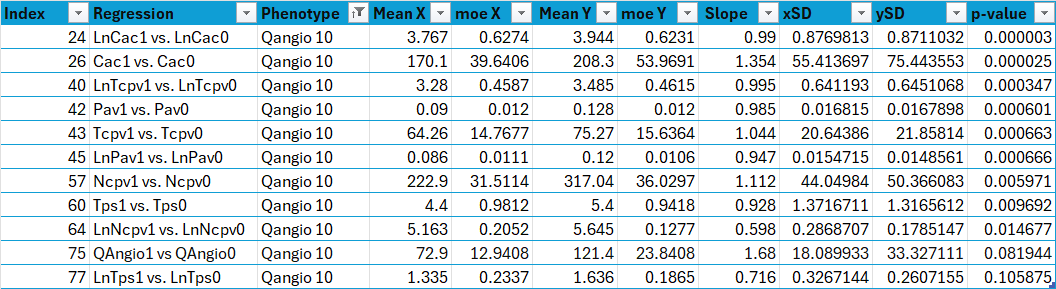
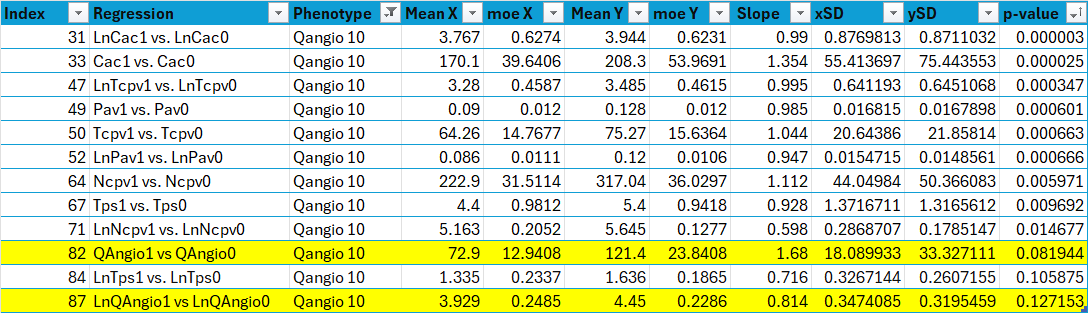
Upgrade to new version 1.1.1 of linear regresion tool, Found a bug in the bottom o the selector code using wrong regex match for attribute case correction.

diff --git a/KetoCtaRegressions/Program_Gold.cs b/KetoCtaRegressions/Program_Gold.cs
@@ -3,6 +3,7 @@ using Keto_Cta;
 using System.Reflection.PortableExecutable;
 using System.Text.RegularExpressions;
 using System.Xml.Linq;
+using LinearRegression;
 using static System.Text.RegularExpressions.Regex;
 
 var ctaDataPath = "TestData/keto-cta-quant-and-semi-quant.csv";
@@ -38,18 +39,18 @@ var dataPoints = new Dictionary<SetName, List<(string id, double x, double y)>>
 foreach (var dust in localDusts)
 {
     dataPoints[dust.SetName].Add(("NA", dust.Regression.PValue, dust.Regression.StdDevX));
-    var bucket = (int)(dust.Regression.PValue() * 5);
+    var bucket = (int)(dust.Regression.PValue * 5);
     histograms[dust.SetName][Math.Min(bucket, 5)]++; // Clamp to 5 for NaN bin
 }
 
-var subsetRegressions = new Dictionary<SetName, MineRegression>();
+var subsetRegressions = new Dictionary<SetName, RegressionPvalue>();
 Console.WriteLine("\nCalculated Subset Regressions:\nSet, 0-0.2, 0.2-0.4, 0.4-0.6, 0.6-0.8, 0.8-1.0, NaN");
 foreach (var item in dataPoints)
 {
     var data = dataPoints[item.Key];
     if (data.Count != 0)
     {
-        var regression = new MineRegression(data);
+        var regression = new RegressionPvalue(data);
         subsetRegressions[item.Key] = regression;
         var hist = histograms[item.Key];
         Console.WriteLine(
@@ -63,15 +64,21 @@ foreach (var item in dataPoints)
 void DustsToRegressionList(IEnumerable<Dust> dusts)
 {
     // header
-    Console.WriteLine($"Regression,Phenotype,Mean X, moe X, Mean Y, moe Y,p-value,R^2");
-    var orderBypVal = dusts.OrderBy(d => d.Regression.PValue);
-    foreach (var item in dusts.OrderBy(d => d.Regression.PValue))
+    Console.WriteLine($"Regression,Phenotype,Mean X,moe X,Mean Y,moe Y,Slope,xSD,p-value");
+    var myDusts = dusts as Dust[] ?? dusts.ToArray();
+    var orderBypVal = myDusts.OrderBy(d => d.Regression.PValue);
+    foreach (var item in orderBypVal)
     {
         var moeX = item.Regression.MarginOfError();
         var moeY = item.Regression.MarginOfError(true);
-        Console.WriteLine($"{item.RegressionName},{item.SetName},{moeX.Mean:F3},{moeX.MarginOfError:F3},{moeY.Mean:F3},{moeY.MarginOfError:F3},{item.Regression.PValue:F8},{item.Regression.RSquared:F5}");
+        Console.WriteLine($"{item.RegressionName},{item.SetName}," +
+                          $"{moeX.Mean:F3},{moeX.MarginOfError:F3}," +
+                          $"{moeY.Mean:F3},{moeY.MarginOfError:F3}," +
+                          $"{item.Regression.Slope:F4},{item.Regression.StdDevX:F3}," +
+                          $"{item.Regression.PValue:F8}");
     }
 }
+
 void DustsToCvs(IEnumerable<Dust> dust)
 {
     foreach (var dust1 in dust)
@@ -83,7 +90,7 @@ void DustsToCvs(IEnumerable<Dust> dust)
         var dependent = parts[0];
 
         Console.WriteLine($"\n-,-,{dust1.RegressionName} -- {dust1.SetName}" +
-                          $"\n-,-,Slope: {target.Slope():F4} N={target.N} R^2: {target.RSquared():F4} p-value: {target.PValue():F6} y-int {target.YIntercept():F4}");
+                          $"\n-,-,Slope: {target.Slope:F4} N={target.N} R^2: {target.RSquared:F4} p-value: {target.PValue:F6} y-int {target.YIntercept:F4}");
         Console.WriteLine($"{regressor}, {dependent}");
         foreach (var point in target.DataPoints)
         {
@@ -242,13 +249,25 @@ while (true)
             var rootDusts = goldMiner.RootStatisticMatrix(SetName.Omega);
             localDusts.AddRange(rootDusts);
             Console.WriteLine(string.Join('\n', GoldMiner.ToStringFormatRegressionsInDusts(rootDusts, true)));
+            continue;
         }
-        else
+
+        //else G1 is there :) !!!
         {
+            var setName = tokens.Groups[1].Value;
+            if (Enum.TryParse(setName, true, out SetName result))
+            {
+                var rootDusts = goldMiner.RootStatisticMatrix(result);
+                localDusts.AddRange(rootDusts);
+                Console.WriteLine(string.Join('\n', GoldMiner.ToStringFormatRegressionsInDusts(rootDusts, true)));
+                continue;
+            }
+
+            // ... but G1 did not parse as  a valid set soo ... try to do something useful     
+
             var dusts = goldMiner.RootAllSetMatrix();
             localDusts.AddRange(dusts);
             Console.WriteLine(string.Join('\n', GoldMiner.ToStringFormatRegressionsInDusts(dusts, true)));
-
         }
     }
     else if (IsMatch(command, @"keto.*", RegexOptions.IgnoreCase))
@@ -288,12 +307,12 @@ while (true)
         IEnumerable<Dust> dusts = [];
         try
         {
-             dusts = goldMiner.GoldDust(title[0]);
+            dusts = goldMiner.GoldDust(title[0]);
         }
         catch (Exception error)
         {
             Console.WriteLine($"Error generating regression for '{title[0]}': {error.Message}");
-            continue;   
+            continue;
         }
 
         localDusts.AddRange(dusts);
@@ -339,9 +358,6 @@ while (true)
                 localDusts.AddRange(newDusts);
 
                 DustsToRegressionList(newDusts);
-                // var requestedDust = newDusts.Where(d => d.SetName.Equals());
-
-                //;
             }
             catch (KeyNotFoundException)
             {

diff --git a/DataMiner/MineRegressionsWithGold.cs b/DataMiner/MineRegressionsWithGold.cs
@@ -87,7 +87,7 @@ public class MineRegressionsWithGold()
         #endregion
 
 
-        _dust = _dust.Distinct().OrderBy(d => d.Regression.PValue()).ToList();
+        _dust = _dust.Distinct().OrderBy(d => d.Regression.PValue).ToList();
         return _dust.ToArray();
     }
 
@@ -139,7 +139,7 @@ public class MineRegressionsWithGold()
                     var chartb = $"{dependent} vs. Ln({numerator} / {denominator})";
 
                     chartMapb.Add(chartb);
-                    
+
                 }
             }
         }
@@ -167,30 +167,31 @@ public class MineRegressionsWithGold()
             return _report.ToArray();
 
         _report.Clear();
-        _report.Add($"Total Regressions: {dusts.Count()}");
+        var myDusts = dusts as Dust[] ?? dusts.ToArray();
+        _report.Add($"Total Regressions: {myDusts.Count()}");
 
         #region Print regression Csv table
         _report.Add($"In Order of PValue (Interesting Regressions Highlighted):");
         _report.Add($"Index, Regression,sub-phenotype,N,MeanX, moeX,MeanY,moeY, Slope, p-value");
         var totalRegressions = 0;
         var index = 0;
-        var sortedDust = dusts.OrderBy(d => d.Regression.PValue());
+        var sortedDust = myDusts.OrderBy(d => d.Regression.PValue);
         foreach (var dust in sortedDust)
         {
             totalRegressions++;
-            if (dust.IsInteresting)
-            {
-                var reg = dust.Regression;
-                var moeX = reg.MarginOfError();
-                var moeY = reg.MarginOfError(true);
-                _report.Add($"{index++}, {dust.RegressionName}, {dust.SetName} {reg.N}," +
-                            $"{moeX.Mean},{moeX.MarginOfError},{moeY.Mean},{moeY.MarginOfError}" +
-                            $"{reg.Slope():F4},{reg.PValue():F6}");
-            }
+            if (!dust.IsInteresting) continue;
+
+            var reg = dust.Regression;
+            var moeX = reg.MarginOfError();
+            var moeY = reg.MarginOfError(true);
+            _report.Add($"{index++}, {dust.RegressionName}, {dust.SetName} {reg.N}," +
+                        $"{moeX.Mean:F3},{moeX.MarginOfError:F3}," +
+                        $"{moeY.Mean:F3},{moeY.MarginOfError:F3}," +
+                        $"{reg.Slope:F4},{reg.PValue:F6}");
         }
         _report.Add($"\nTotal regressions calculated {totalRegressions}");
         _report.Add($"Uninteresting regressions included in calculated (See Dust.IsInteresting flag): {_uninterestingSkip}");
-        _report.Add($"Total interesting regressions: {dusts.Count(d => d.IsInteresting)}");
+        _report.Add($"Total interesting regressions: {myDusts.Count(d => d.IsInteresting)}");
         _report.Add($"Interesting remaining regressions: {index}");
         #endregion
 

diff --git a/KetoCtaTest/SelectorTwoTest.cs b/KetoCtaTest/SelectorTwoTest.cs
@@ -46,7 +46,7 @@ namespace KetoCtaTest
                     testOutputHelper.WriteLine($"Normalized attribute: {attLn} -> {normalized}");
                     var compiled = CreateSelector.Compile(normalized);
                     // look up the expected normalized attLn
-                    var reflectValue = (double)CreateSelector.GetNestedPropertyValue(element, compiled.numerator);
+                    var reflectValue = (double)(CreateSelector.GetNestedPropertyValue(element, compiled.numerator) ?? double.NaN);
                     testOutputHelper.WriteLine($"\tCompiled   attribute: {attLn} -> {compiled} -> {reflectValue:F2}");
 
                 }
@@ -80,11 +80,11 @@ namespace KetoCtaTest
             var regression = new RegressionPvalue(xyList);
 
             // Act 2
-            var regression2 = new MineRegression(selResult.ToList());
+            var regression2 = new RegressionPvalue(selResult.ToList());
             Assert.NotNull(selResult);
             Assert.NotEmpty(xyList);
             Assert.NotNull(regression);
-            Assert.Equal(0.00003316389, regression.PValue(), 0.000033);
+            Assert.Equal(0.00003316389, regression.PValue, 0.000033);
             testOutputHelper.WriteLine($"Regression: {regression.ToString()}");
         }
 
@@ -108,17 +108,18 @@ namespace KetoCtaTest
             var goldMiner = new GoldMiner(path);
 
             const string ratio = "Cac0 / Ncpv1 vs Cac0";
+            
             // Act
             var c2 = new CreateSelector(ratio);
 
             // Assert
-            var sel = goldMiner.Zeta.Select(c2.Selector);
+            var sel = goldMiner.Zeta.Select(c2.Selector).ToList();
             Assert.NotNull(sel);
-            var regression = new MineRegression(sel);
+            var regression = new RegressionPvalue(sel.ToList());
             testOutputHelper.WriteLine($"Ratio Regression: {ratio}");
             testOutputHelper.WriteLine(c2.ToString());
 
-            var valueTriples = sel as (string id, double x, double y)[] ?? sel.ToArray();
+            var valueTriples = sel.ToArray() as (string id, double x, double y)[] ?? sel.ToArray();
             foreach (var (id, x, y) in valueTriples)
             {
                 testOutputHelper.WriteLine($"Element ID: {id}, X: {x}, Y: {y}");

diff --git a/DataMiner/GoldMiner.cs b/DataMiner/GoldMiner.cs
@@ -1,4 +1,5 @@
 using Keto_Cta;
+using LinearRegression;
 
 namespace DataMiner;
 
@@ -196,7 +197,7 @@ public class GoldMiner
 
         var selectedData = data.Select(selector.Selector);
 
-        var regression = new MineRegression(selectedData);
+        var regression = new RegressionPvalue(selectedData.ToList());
 
         return regression.DataPointsCount() < 3 ? null : new Dust(setName, chartTitle, regression);
     }
@@ -408,9 +409,9 @@ public class GoldMiner
         dusts.AddRange(RootStatisticMatrix(SetName.BetaUZeta));
         dusts.AddRange(RootStatisticMatrix(SetName.Qangio));
 
-        var locDusts = dusts.OrderBy(d => d.Regression.PValue()).ToArray<Dust>();
+        var locDusts = dusts.OrderBy(d => d.Regression.PValue).ToArray<Dust>();
 
-        return locDusts.OrderBy(d => d.Regression.PValue()).ToArray();
+        return locDusts.OrderBy(d => d.Regression.PValue).ToArray();
     }
 
     public Dust[] RootStatisticMatrix(SetName setName, bool header = true)
@@ -448,10 +449,10 @@ public class GoldMiner
                         select $"{index++},{item.RegressionName},{item.SetName} {item.Regression.N},"
                                + $"{moeX.Mean:F3},{moeX.MarginOfError:F4},"
                                + $"{moeY.Mean:F3},{moeY.MarginOfError:F4},"
-                               + $"{item.Regression.Slope():F3},"
+                               + $"{item.Regression.Slope:F3},"
                                + $"{item.Regression.StdDevX:F3},"
                                + $"{item.Regression.StdDevY:F3},"
-                               + $"{item.Regression.PValue():F11}");
+                               + $"{item.Regression.PValue:F11}");
 
         return string.Join('\n', result.ToArray());
     }

diff --git a/DataMiner/C2Compiler.cs b/DataMiner/C2Compiler.cs
@@ -110,7 +110,6 @@ namespace DataMiner
                             ? Compile(denG5)
                             : Compile(denG3);
 
-
                     if (numerator.token == Token.Ratio || denominator.token == Token.Ratio)
                         throw new SyntaxErrorException(
                             $"No, I am not going to do recursive trees of ratios of ratios, <sigh/>, 'ratio vs ratio' is okay however ... call me <Grin/> Re: {regDep})");
@@ -137,7 +136,7 @@ namespace DataMiner
 
                 // Check for visit attribute
                 var visitElement = Regex.Match(numerator, @"^\s*((Ln|LnD)?[A-Z)]+)(\d)?\s*$", RegexOptions.IgnoreCase);
-                if (tokens.Success)
+                if (visitElement.Success)
                 {
                     // if there is a G3 this is a Visit attribute else element attribute
                     bool isVisit = visitElement.Groups[3].Success && visitElement.Groups[1].Success;
@@ -148,7 +147,7 @@ namespace DataMiner
                     string comp =
                         isVisit
                             ? $"Visits[{visitElement.Groups[3]}].{visitElement.Groups[1].Value}"
-                            : tokens.Groups[1].Value;
+                            : visitElement.Groups[1].Value;
 
                     return (
                         isVisit ? Token.VisitAttribute : Token.ElementAttribute,

diff --git a/DataMiner/Dust.cs b/DataMiner/Dust.cs
@@ -1,10 +1,11 @@
 using Keto_Cta;
+using LinearRegression;
 
 namespace DataMiner;
 
 public class Dust
 {
-    public Dust(SetName set, string title, MineRegression regression)
+    public Dust(SetName set, string title, RegressionPvalue regression)
     {
         SetName = set;
         RegressionName = title;
@@ -23,17 +24,17 @@ public class Dust
     {
         SetName = set;
         RegressionName = title;
-        Regression = new MineRegression([]); // Initialize with a default value
+        Regression = new RegressionPvalue(); // Initialize with a default value
     }
 
     public readonly SetName SetName;
     public readonly string RegressionName;
-    public MineRegression Regression;
-    public bool IsInteresting => Regression.N >= 2 && Regression.PValue() > 0.0 && Regression.PValue() <= 0.601;
+    public RegressionPvalue Regression;
+    public bool IsInteresting => Regression is { N: >= 2, PValue: > 0.0 and <= 0.601 };
 
     public override string ToString()
     {
-        return $"{RegressionName},{SetName} {Regression.N},Slope {Regression.Slope():F5}," +
-               $"p-value: {Regression.PValue():F3}";
+        return $"{RegressionName},{SetName} {Regression.N},Slope {Regression.Slope:F5}," +
+               $"p-value: {Regression.PValue:F3}";
     }
 }

diff --git a/DataMiner/MineRegression.cs b/DataMiner/MineRegression.cs
@@ -9,21 +9,13 @@ namespace DataMiner
 
         public string[] DataPointIds { get; init; }
 
-        public new double Slope => (base.Slope());
-        public new double YIntercept => (base.YIntercept());
-        public new double RSquared => (base.RSquared());
-        public new double PValue => (base.PValue());
-        public new double MeanX => (base.MeanX());
-        public new double MeanY => (base.MeanY());
-        public new double StdDevX => (base.StdDevX());
-        public new double StdDevY => (base.StdDevY());
-        public new double Correlation => (base.Correlation());
+
 
         public override string ToString()
         {
             var x = MarginOfError();
             var y = MarginOfError(true);
-            return $"X: {x.Mean:F3} moeX: {x.MarginOfError:F3} Y: {y.Mean:F3} moeY: {y.MarginOfError:F3} Slope: {Slope():F3} p-value: {base.PValue():F8}";
+            return $"X: {x.Mean:F3} moeX: {x.MarginOfError:F3} Y: {y.Mean:F3} moeY: {y.MarginOfError:F3} Slope: {Slope:F3} p-value: {base.PValue:F8}";
         }
     }
 }

diff --git a/KetoCtaTest/ParseKetoCtaTest.cs b/KetoCtaTest/ParseKetoCtaTest.cs
@@ -453,7 +453,7 @@ public class ParseKetoCtaTest(ITestOutputHelper testOutputHelper)
 
     private static string Message(string label, RegressionPvalue regression)
     {
-        return $"'{label}' slope: {regression.Slope():F5} N: {regression.N} R2: {regression.RSquared():F5} PValue: {regression.PValue():F5} Y-intercept: {regression.YIntercept():F4}";
+        return $"'{label}' slope: {regression.Slope:F5} N: {regression.N} R2: {regression.RSquared:F5} PValue: {regression.PValue:F5} Y-intercept: {regression.YIntercept:F4}";
     }
 
     private static List<Element> ReadCsvFile(string path)

diff --git a/KetoCtaTest/GoldMinerTest.cs b/KetoCtaTest/GoldMinerTest.cs
@@ -110,7 +110,7 @@ namespace KetoCtaTest
                         var result = goldMiner.AuDust(SetName.Omega, chart);
                         var reg = result.Regression;
                         testOutputHelper.WriteLine(
-                            $"{index++}, {result.RegressionName}, {result.SetName}, {reg.Slope():F4}, {reg.PValue():F4}, {reg.Correlation():F4}");
+                            $"{index++}, {result.RegressionName}, {result.SetName}, {reg.Slope:F4}, {reg.PValue:F4}, {reg.Correlation:F4}");
                     }
                 }
             }
